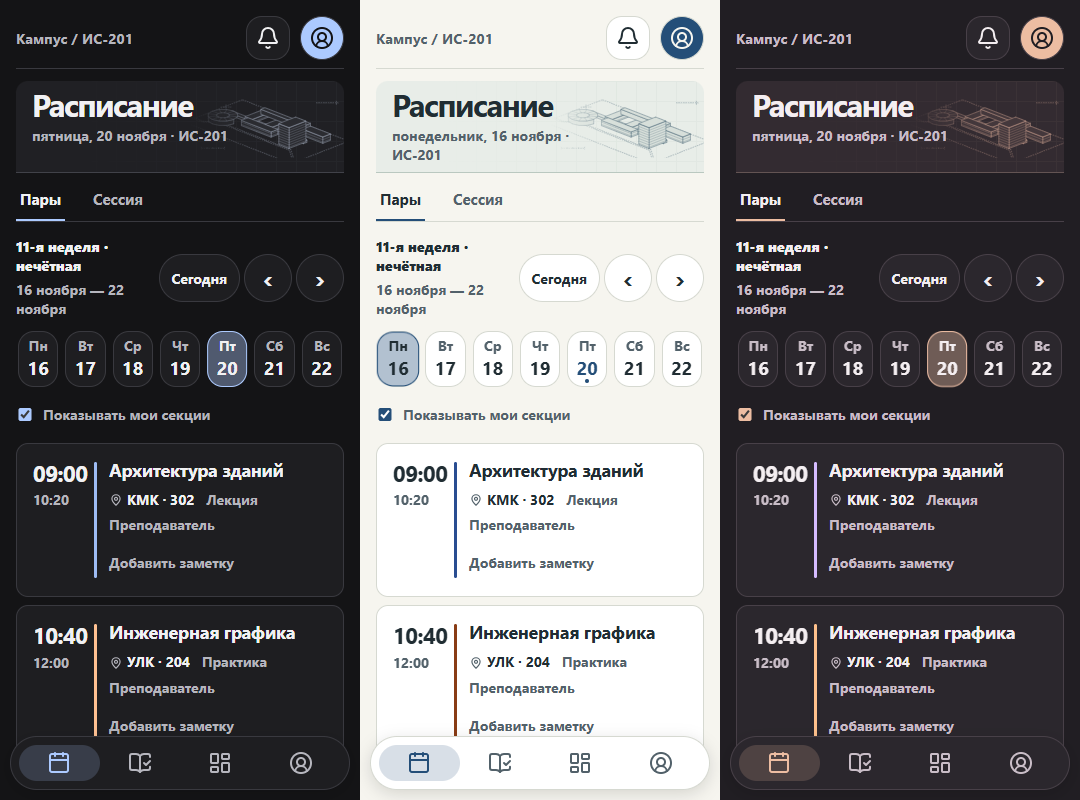
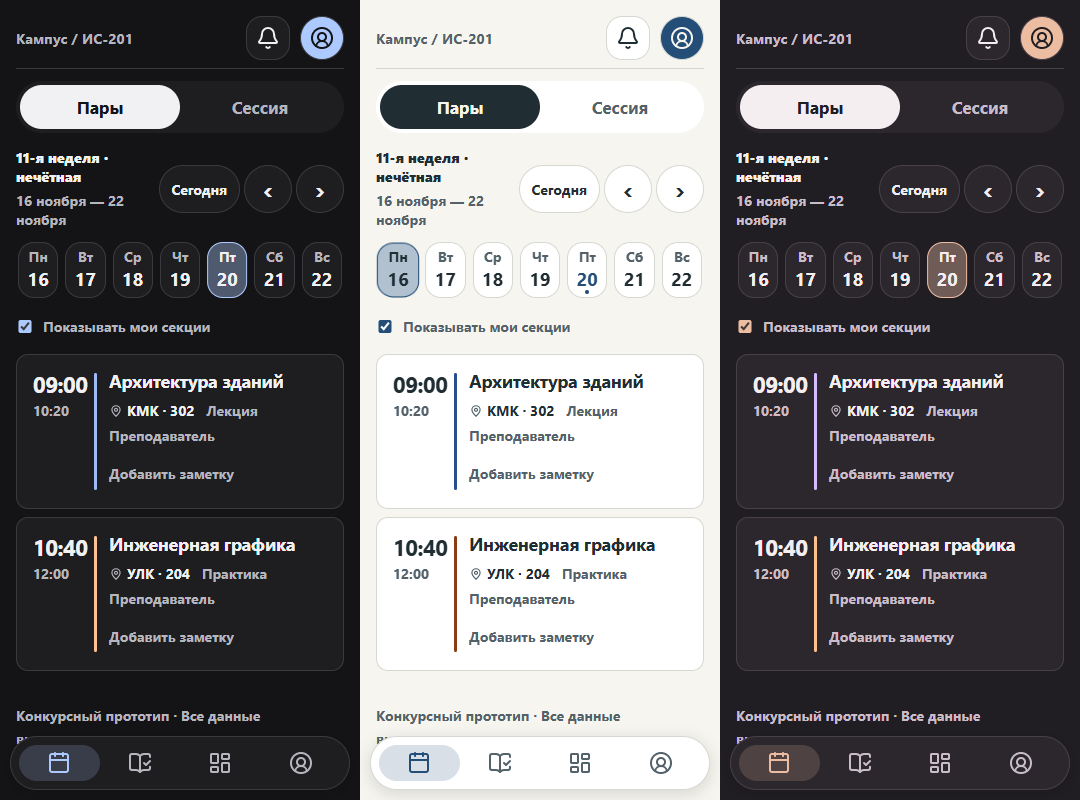
Убрать шапку расписания и добавить подвижный переключатель пар и сессии

diff --git a/public/style.css b/public/style.css
@@ -223,16 +223,11 @@ body[data-custom-accent=yes] .mobile-nav button.active{color:var(--accent)}
  .appearance-actions button{flex:1 1 160px}
 }
 /* The cover uses the campus footprint as the visual signature of the timetable. */
-.schedule-cover{position:relative;isolation:isolate;overflow:hidden;display:flex;align-items:flex-end;min-height:148px;margin-bottom:24px;padding:26px 30px;border:1px solid var(--rule);border-radius:20px;background:var(--cover)}
-.schedule-cover::before,.login-drawing::before{position:absolute;content:"";inset:0;z-index:-1;background-image:linear-gradient(to right,var(--rule) 1px,transparent 1px),linear-gradient(var(--rule) 1px,transparent 1px);background-size:18px 18px;opacity:.22;mask-image:linear-gradient(90deg,transparent 20%,black 78%)}
+.login-drawing::before{position:absolute;content:"";inset:0;z-index:-1;background-image:linear-gradient(to right,var(--rule) 1px,transparent 1px),linear-gradient(var(--rule) 1px,transparent 1px);background-size:18px 18px;opacity:.22;mask-image:linear-gradient(90deg,transparent 20%,black 78%)}
 .campus-drawing{color:var(--drawing);pointer-events:none}
-.schedule-cover .campus-drawing{position:absolute;z-index:-1;right:0;top:50%;width:51%;height:140%;transform:translateY(-50%)}
 .drawing-volume{fill:var(--drawing-roof)}
 .drawing-detail{opacity:.8;stroke-width:.68}
 .drawing-site{opacity:.77;stroke-dasharray:3 2}
-.schedule-cover .heading{margin:0;width:54%;align-items:flex-end}
-.schedule-cover h1{font-size:clamp(2.15rem,4vw,3.3rem);font-weight:720;letter-spacing:-.052em;line-height:1.07}
-.schedule-cover p{font-size:.95rem;margin-top:10px}
 .login-drawing{isolation:isolate;position:relative;margin:0 0 24px;height:100px;background:var(--cover);border-block:1px solid var(--rule);overflow:hidden}
 .login-drawing .campus-drawing{width:100%;height:100%;display:block}
 .login .brand{margin-bottom:24px}
@@ -285,18 +280,13 @@ input[type=checkbox],input[type=radio]{accent-color:var(--accent)}
 .theme-choice:has(:checked) .sample-name b{visibility:visible}
 .appearance-preview{border-radius:16px;background:var(--panel)}
 @media(max-width:720px){
- .schedule-cover{min-height:114px;padding:17px 15px;margin-bottom:16px;border-radius:16px}
- .schedule-cover .heading{width:78%}
- .schedule-cover h1{font-size:clamp(1.85rem,8.5vw,2.6rem)}
- .schedule-cover p{font-size:0.875rem;max-width:26ch;line-height:1.36}
- .schedule-cover .campus-drawing{right:-9%;width:56%;height:124%;mask-image:linear-gradient(90deg,transparent,black 40%)}
  .top{margin-bottom:15px}
  .lesson{padding:17px 14px;grid-template-columns:max-content minmax(0,1fr);gap:14px}
  .days{gap:1px}.day{padding:8px 0 10px}
  .theme-samples{gap:7px}.theme-sample{padding:7px}
 }
 @media(prefers-reduced-motion:no-preference){
- body,.schedule-cover,.card,.mobile-nav,.service-card,.appearance-preview,.campus-drawing{transition:background-color 180ms ease,color 180ms ease,border-color 180ms ease}
+ body,.card,.mobile-nav,.service-card,.appearance-preview,.campus-drawing{transition:background-color 180ms ease,color 180ms ease,border-color 180ms ease}
  .theme-sample,.day,.nav button,.mobile-nav button,.segmented button{transition:background-color 130ms,border-color 130ms,transform 130ms}
  .theme-choice:active .theme-sample,.day:active,.segmented button:active{transform:scale(.97)}
  dialog[open]{animation:portal-dialog-in 160ms ease-out}
@@ -410,9 +400,9 @@ input[type=checkbox],input[type=radio]{accent-color:var(--accent)}
 }
 @media(prefers-reduced-motion:no-preference) {
   .bell-layer { transition: opacity 150ms ease, transform 160ms var(--ease-out); }
-  :is(.mobile-nav .nav-drop, .day-drop):not([data-instant]) { transition: transform 250ms var(--ease-out); }
-  :is(.nav-drop, .day-drop)::before { transition: transform 120ms var(--ease-in-out); }
-  :is(.nav-drop, .day-drop).moving::before { transform: scale(1.08, .97); }
+  :is(.mobile-nav .nav-drop, .day-drop, .mode-drop):not([data-instant]) { transition: transform 250ms var(--ease-out); }
+  :is(.nav-drop, .day-drop, .mode-drop)::before { transition: transform 120ms var(--ease-in-out); }
+  :is(.nav-drop, .day-drop, .mode-drop).moving::before { transform: scale(1.08, .97); }
   .mobile-nav button, .mobile-nav .icon { transition: color 130ms ease, transform 130ms var(--ease-out); }
   .mobile-nav button:active .icon { transform: scale(.96); }
   .week-actions button, .primary, .section-tabs button, .service-card {
@@ -438,37 +428,59 @@ input[type=checkbox],input[type=radio]{accent-color:var(--accent)}
 h1, h2, h3, .service-copy strong, .day strong { font-weight:700; }
 .side-label, .eyebrow { text-transform: none; letter-spacing: 0; font-size:0.875rem; }
 .sidebar .nav button { padding: 10px 12px; border-radius: 8px; }
-.schedule-cover {
-  min-height: 128px;
-  padding: 24px;
-  background: var(--cover);
-  border: 0;
-  border-bottom: 1px solid var(--rule);
-  border-radius: 12px 12px 0 0;
-}
-.schedule-cover h1 { font-weight:700; letter-spacing: -.04em; }
-.schedule-cover .campus-drawing { right: 0; height: 112%; }
-.schedule-cover::before { background-size: 20px 20px; opacity: .16; }
-.schedule-layout .segmented {
-  padding: 0;
-  gap: 24px;
+.schedule-modes {
+  position: relative;
+  isolation: isolate;
+  display: grid;
+  grid-template-columns: repeat(2, minmax(0,1fr));
+  padding: 4px;
   margin-bottom: 16px;
+  border-radius: 999px;
+  background: var(--panel);
+  font-size: 1.0625rem;
+  font-weight: 700;
+}
+.schedule-modes button {
+  min-height: 44px;
+  padding: 6px;
   border: 0;
-  border-radius: 0;
-  border-bottom: 1px solid var(--line);
+  border-radius: inherit;
   background: transparent;
+  color: var(--muted);
+  font: inherit;
 }
-.schedule-layout .segmented button {
-  flex: none;
-  padding: 8px 4px;
-  border-radius: 0;
-  font-size: .9375rem;
-  font-weight:700;
+.mode-drop {
+  position: absolute;
+  grid-area: 1 / 1 / 2 / 2;
+  inset: 0;
+  z-index: -1;
+  pointer-events: none;
 }
-.schedule-layout .segmented button.active {
-  color: var(--ink);
-  background: transparent;
-  box-shadow: inset 0 -2px var(--accent);
+.mode-drop::before {
+  content: "";
+  position: absolute;
+  inset: 0;
+  border-radius: 999px;
+  background: var(--ink);
+}
+.schedule-modes { overflow: hidden; }
+.schedule-modes button:focus-visible { outline-offset: -3px; outline-color: var(--accent); }
+.mode-labels {
+  position: absolute;
+  inset: 4px;
+  display: grid;
+  grid-template-columns: repeat(2,minmax(0,1fr));
+  align-items: center;
+  text-align: center;
+  color: var(--bg);
+  pointer-events: none;
+  clip-path: inset(0 50% 0 0 round 999px);
+}
+.schedule-modes button:nth-child(2)[aria-pressed=true] ~ .mode-labels {
+  clip-path: inset(0 0 0 50% round 999px);
+}
+@media (prefers-reduced-motion:no-preference) {
+  .mode-drop:not([data-instant]) + .mode-labels { transition: clip-path 250ms var(--ease-out); }
 }
 .weekbar {
   display: grid;
@@ -538,10 +550,6 @@ h1, h2, h3, .service-copy strong, .day strong { font-weight:700; }
 @media (max-width: 720px) {
   .main { padding: 16px 16px calc(80px + env(safe-area-inset-bottom, 0px)); }
   .top { margin-bottom: 12px; padding-bottom: 8px; }
-  .schedule-cover { padding: 8px 16px; min-height: 88px; margin-bottom: 4px; }
-  .schedule-cover .heading { width: 72%; }
-  .schedule-cover p { margin-top: 4px; max-width: none; min-block-size: 2.72em; }
-  .schedule-cover .campus-drawing { right: -5%; width: 52%; }
   .weekbar strong { font-size:0.875rem; }
   .weekbar small { font-size:0.875rem; }
   .days { gap: 3px; }

diff --git a/public/app.js b/public/app.js
@@ -144,6 +144,9 @@ async function render({keyboard = false, scrollTop = false} = {}) {
     const indicator = days.querySelector('.day-drop');
     bindIndicator(indicator);
     positionIndicator(indicator, [...days.children].indexOf(days.querySelector('.active')), true, 'var(--day-gap)');
+    const modeDrop = content.querySelector('.mode-drop');
+    bindIndicator(modeDrop);
+    positionIndicator(modeDrop, mode === 'Сессия' ? 1 : 0, true);
    }
   }
   content.inert = false;
@@ -151,6 +154,7 @@ async function render({keyboard = false, scrollTop = false} = {}) {
   if (focusHeading) {
    const title = content.querySelector('h1');
    if (title) { title.tabIndex = -1; title.focus({preventScroll:true}); }
+   else content.querySelector('.schedule-modes [aria-pressed=true]')?.focus({preventScroll:true});
   }
   lastShownPage = page;
   if (page === 'schedule') lastShownDate = selected;
@@ -201,11 +205,6 @@ function dayButtons(monday) {
  }).join('');
 }
 
-function scheduleSubtitle() {
- const group = user.grp || (user.role === 'teacher' ? 'Мои занятия' : user.role === 'student' ? 'Группа пока не назначена' : 'Расписание групп — в управлении');
- return fmt(selected,{weekday:'long',day:'numeric',month:'long'}) + ' · ' + group;
-}
-
 function weekRange(monday) {
  return fmt(monday) + ' — ' + fmt(shift(monday,6));
 }
@@ -231,7 +230,7 @@ function previewSchedule(content, keyboard) {
   else button.removeAttribute('aria-current');
   if (active) positionIndicator(strip.querySelector('.day-drop'), i, keyboard, 'var(--day-gap)');
  }
- content.querySelector('.schedule-cover .heading p').textContent = scheduleSubtitle();
+ positionIndicator(content.querySelector('.mode-drop'), mode === 'Сессия' ? 1 : 0, keyboard);
  for (const button of content.querySelectorAll('[data-mode]')) {
   const active = button.dataset.mode === mode;
   button.classList.toggle('active', active);
@@ -277,9 +276,13 @@ async function schedule() {
 
 function schedulePage({weekLabel, agenda, summary}) {
  const monday = weekStart(selected);
- return `<header class="schedule-cover">${campusDrawing()}${heading('Расписание',esc(scheduleSubtitle()))}</header>
-  <div class="schedule-layout"><section>
-   <div class="segmented">${['Пары','Сессия'].map(m=>`<button data-mode="${m}" class="${mode===m?'active':''}" aria-pressed="${mode===m}">${m}</button>`).join('')}</div>
+ const modes = ['Пары','Сессия'];
+ return `<div class="schedule-layout"><section aria-label="Расписание">
+   <div class="schedule-modes" role="group" aria-label="Вид расписания">
+    ${modes.map(m=>`<button data-mode="${m}" aria-pressed="${mode===m}">${m}</button>`).join('')}
+    <span class="mode-drop" aria-hidden="true"></span>
+    <span class="mode-labels" aria-hidden="true">${modes.map(m=>`<span>${m}</span>`).join('')}</span>
+   </div>
    <div class="weekbar"><div><strong>${esc(weekLabel)}</strong><small>${weekRange(monday)}</small></div><div class="week-actions"><button data-action="today">Сегодня</button><button data-shift="-7" aria-label="Предыдущая неделя">‹</button><button data-shift="7" aria-label="Следующая неделя">›</button></div></div>
    <div class="days">${dayButtons(monday)}<span class="day-drop" aria-hidden="true"></span></div>
    <label class="checkline"><input type="checkbox" id="showClubs" ${showClubs?'checked':''}>Показывать мои секции</label>
